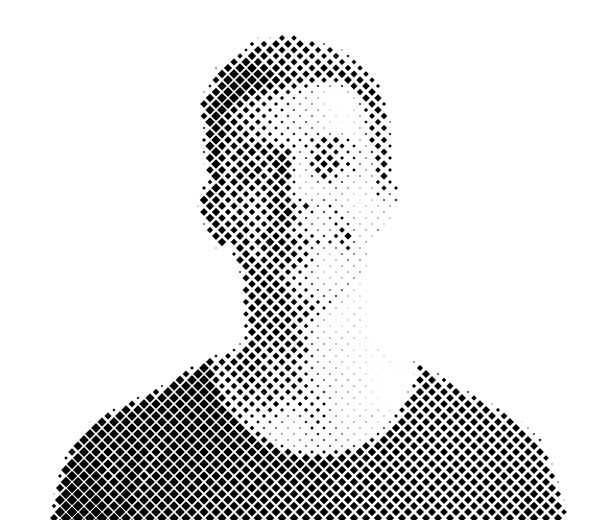
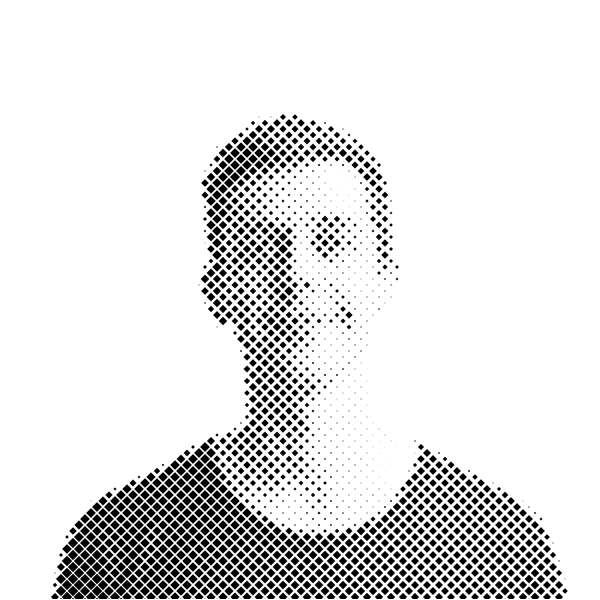
edit photo

Changed region(s): [[0.09, 0.0615, 0.96, 1.0]]

diff --git a/js/fellows_list.js b/js/fellows_list.js
@@ -8,7 +8,7 @@ var fellowship_fellows_context = {
       }, 
       {
             name:'Alex Ramsey', 
-            img_url: './static/fellows/022_Snap_AlexRamsey.png', 
+            img_url: './static/fellows/022_Snap_AlexRamsey_600x602.png', 
             project: 'Snap',
             data_url: './022_fellowship_snap'
       }, 
